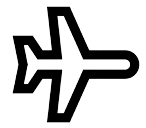
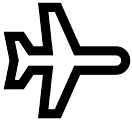
page menu en cour (changer taille image)

diff --git a/menu.html b/menu.html
@@ -21,19 +21,19 @@
     </h1>
     <nav>
         <ul>
-            <li>
+            <li class="puce">
                <a href ="accueil.html"> ACCUEIL </a>
             </li>
-            <li>
+            <li class="puce">
                <a href ="producteur.html"> PRODUCTEUR </a>
             </li>
-            <li>
+            <li class="puce">
                <a href ="type.html"> TYPE </a>
             </li>
-            <li>
+            <li class="puce">
                <a href ="moteur.html"> MOTEUR </a>
             </li>
-            <li>
+            <li class="puce">
                <a href ="liens.html"> LIENS / VIDEO </a>
             </li>
         </ul>

diff --git a/CSS.css b/CSS.css
@@ -103,13 +103,16 @@ p {
     color: #FFFFFF;
     padding: 0% 0% 0% 0%;
 }
-.page_menu ul {
-    list-style-type: none;
-    list-style-image: url("images/iconavion.png");
-}
+
 .page_menu li a {
     text-decoration: none;
 }
+.page_menu ul {
+    list-style-type: none;
+    list-style-image: url("images/iconavion30height.png");
+    margin: 0% 10% 0% 10%;
+}
+
 
 /***********************************
           pied de page
